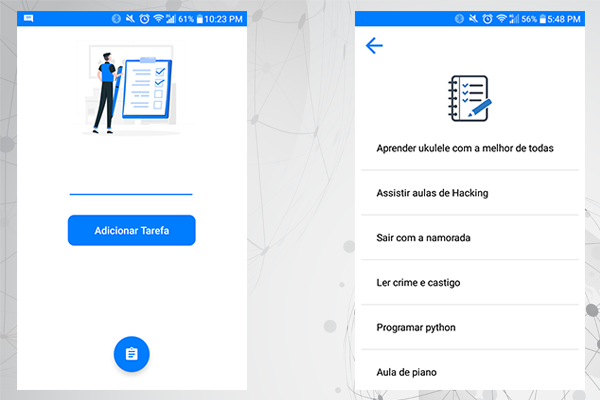
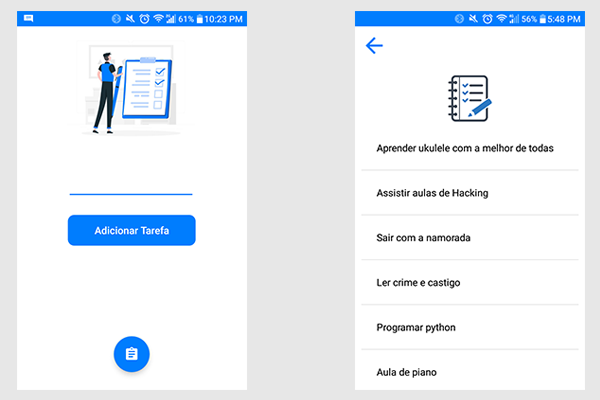
image center and fix

diff --git a/README.md b/README.md
@@ -1,6 +1,6 @@
 # Tarefas 
 <h4 align="center">
-    ![](readme/windows.png)
+    <img src="readme/windows.png"/>
 </h4>
 App que lista sua tarefas feito para matéria de programação mobile com **Android Studio**
 
